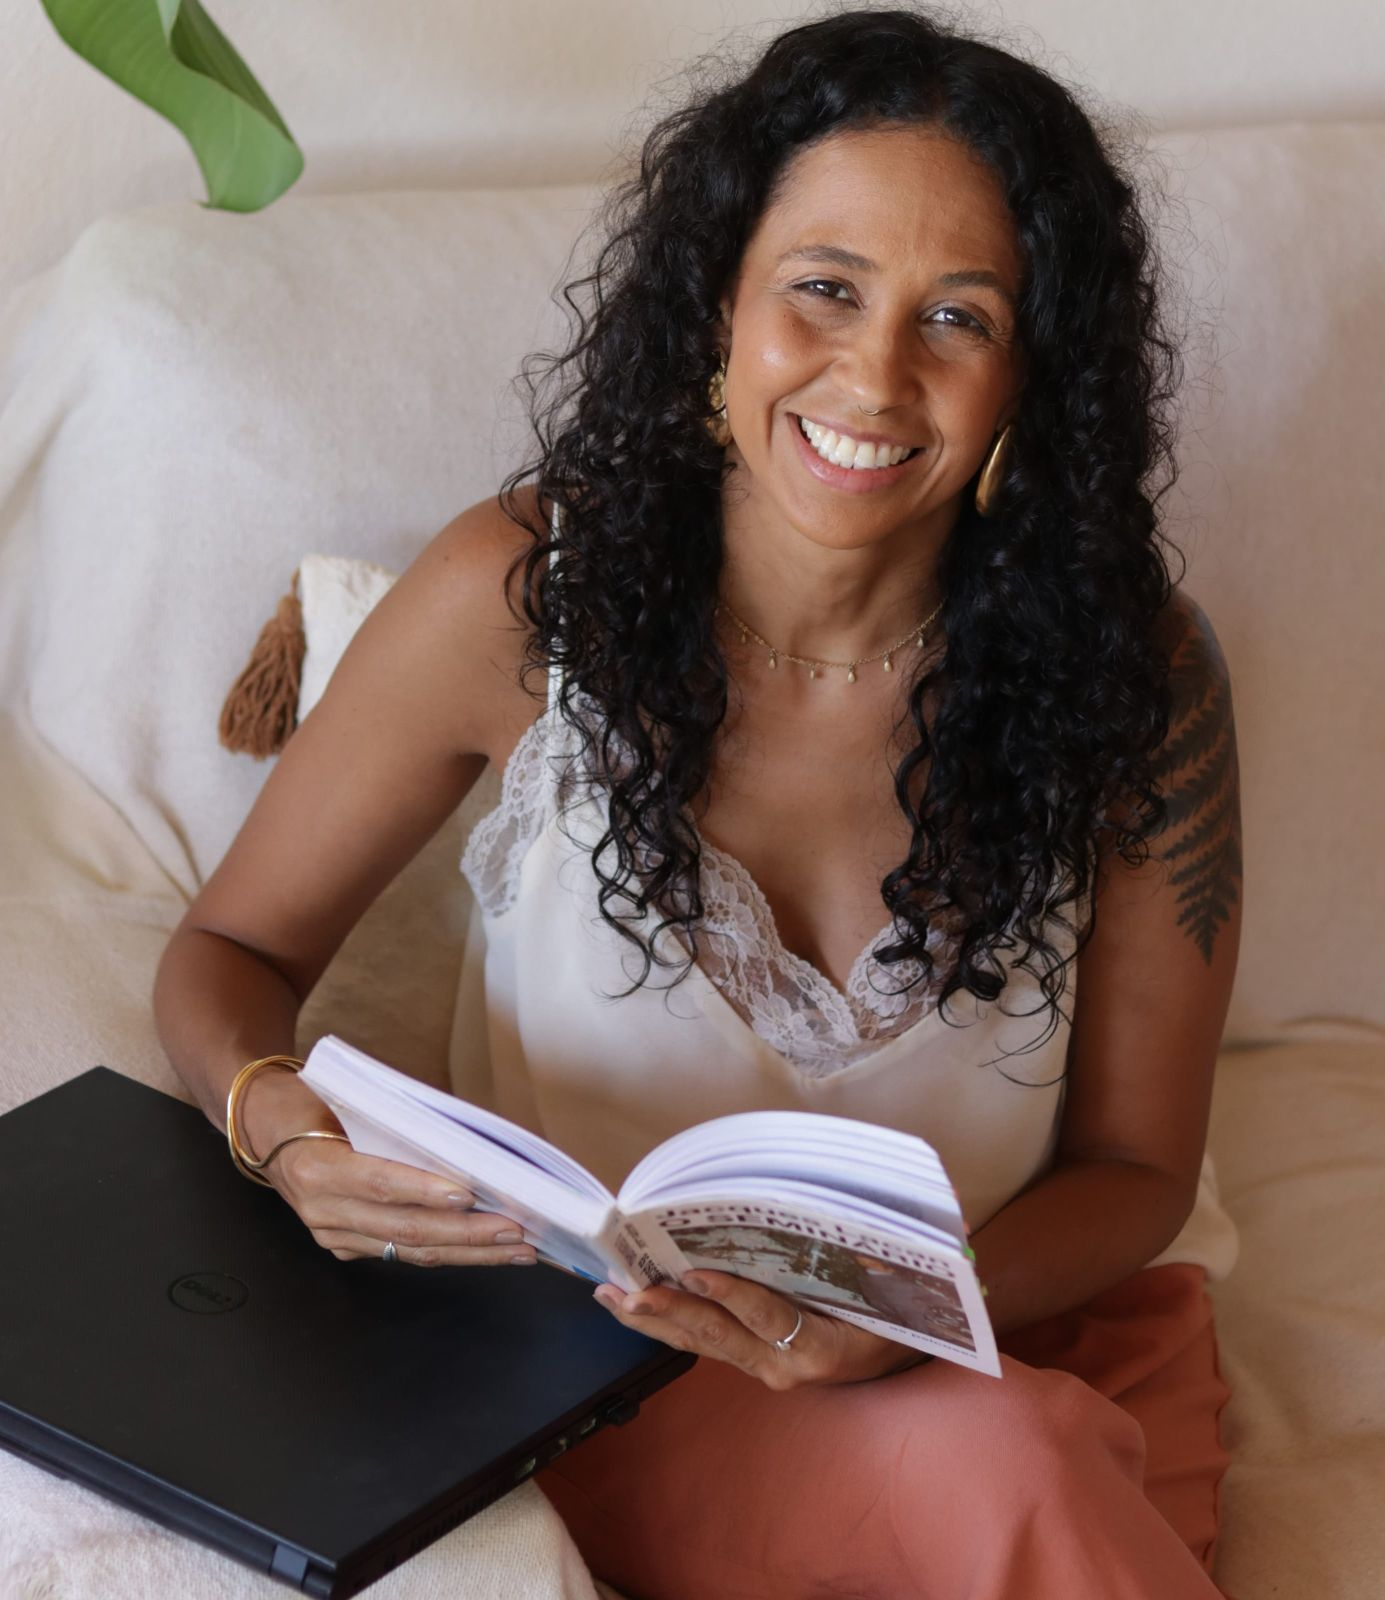
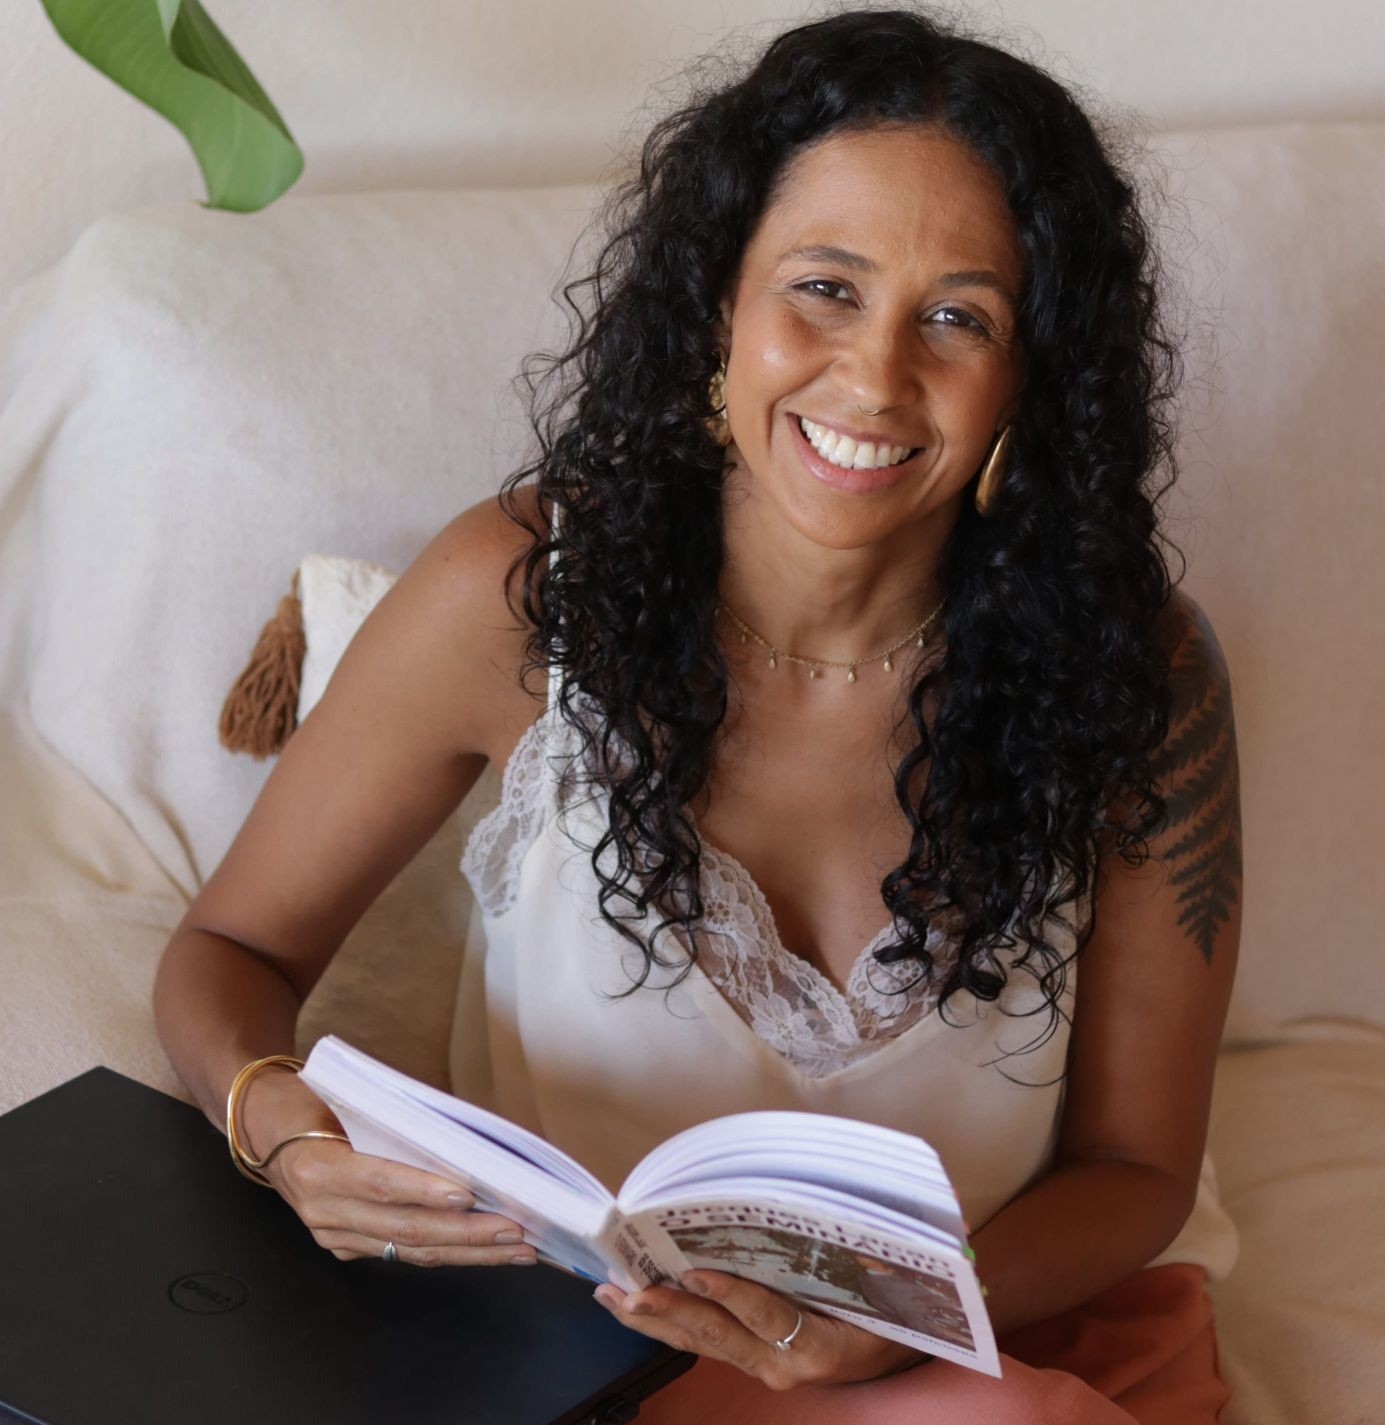
Mudança de foto 26/01

diff --git a/dist/index.html b/dist/index.html
@@ -58,7 +58,7 @@
       >
         <img
           class="image pure-img"
-          src="/img/luna.jpeg?v=7d9a9440"
+          src="/img/luna.jpeg?v=1d14ada4"
           alt="foto"
         >
         <h3 class="name" style="color: black;font-size: 1.1rem;">
@@ -86,7 +86,7 @@
       >
         <img
           class="image pure-img"
-          src="/img/debora.jpg?v=3a79b479"
+          src="/img/debora.jpg?v=e4b0def6"
           alt="foto"
         >
         <h3 class="name" style="color: black;font-size: 1.1rem;">
@@ -114,7 +114,7 @@
       >
         <img
           class="image pure-img"
-          src="/img/julio.jpg?v=d8f6e233"
+          src="/img/julio.jpeg?v=7033c536"
           alt="foto"
         >
         <h3 class="name" style="color: black;font-size: 1.1rem;">
